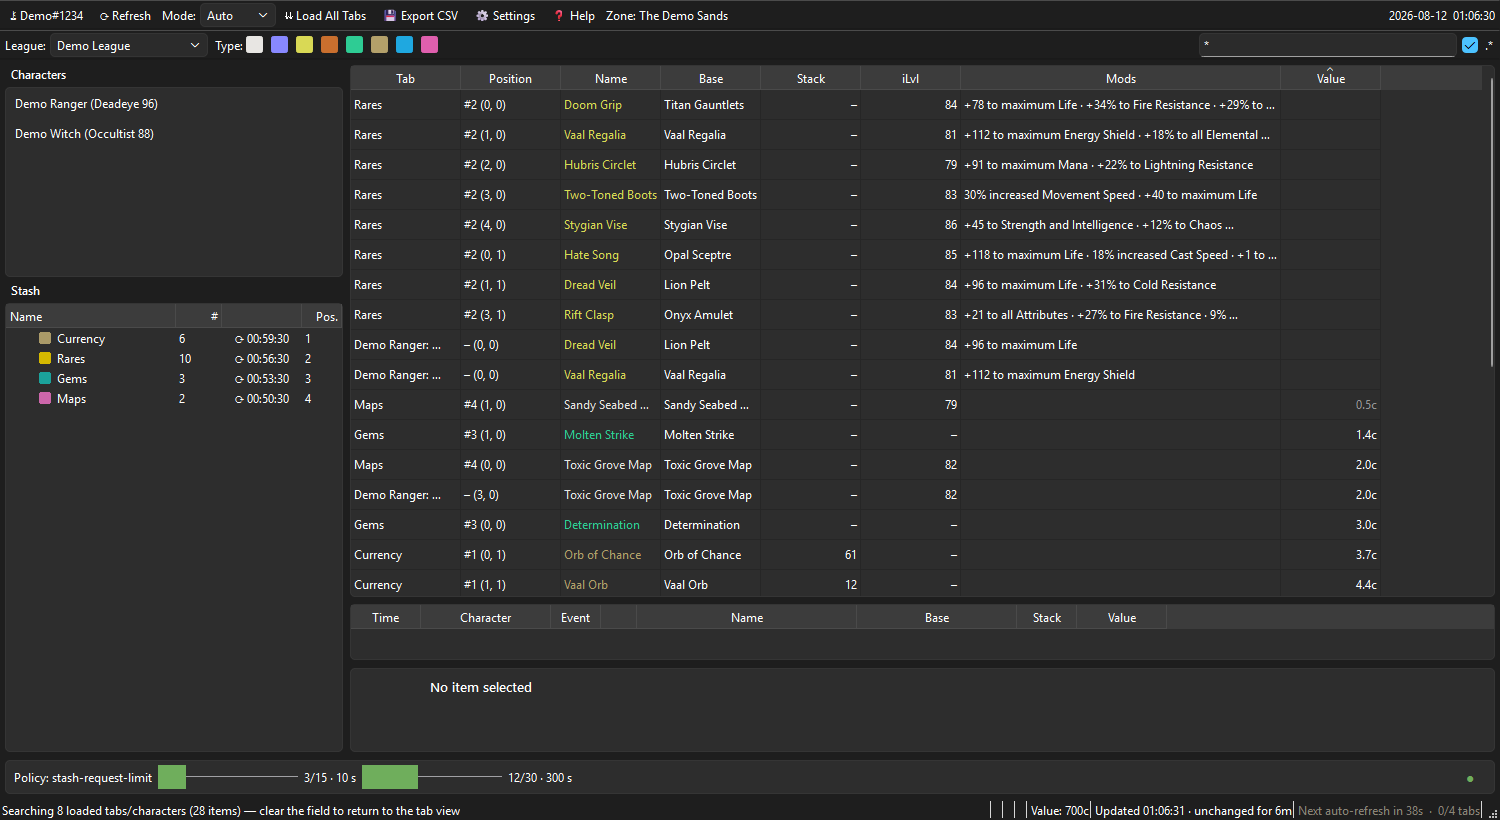
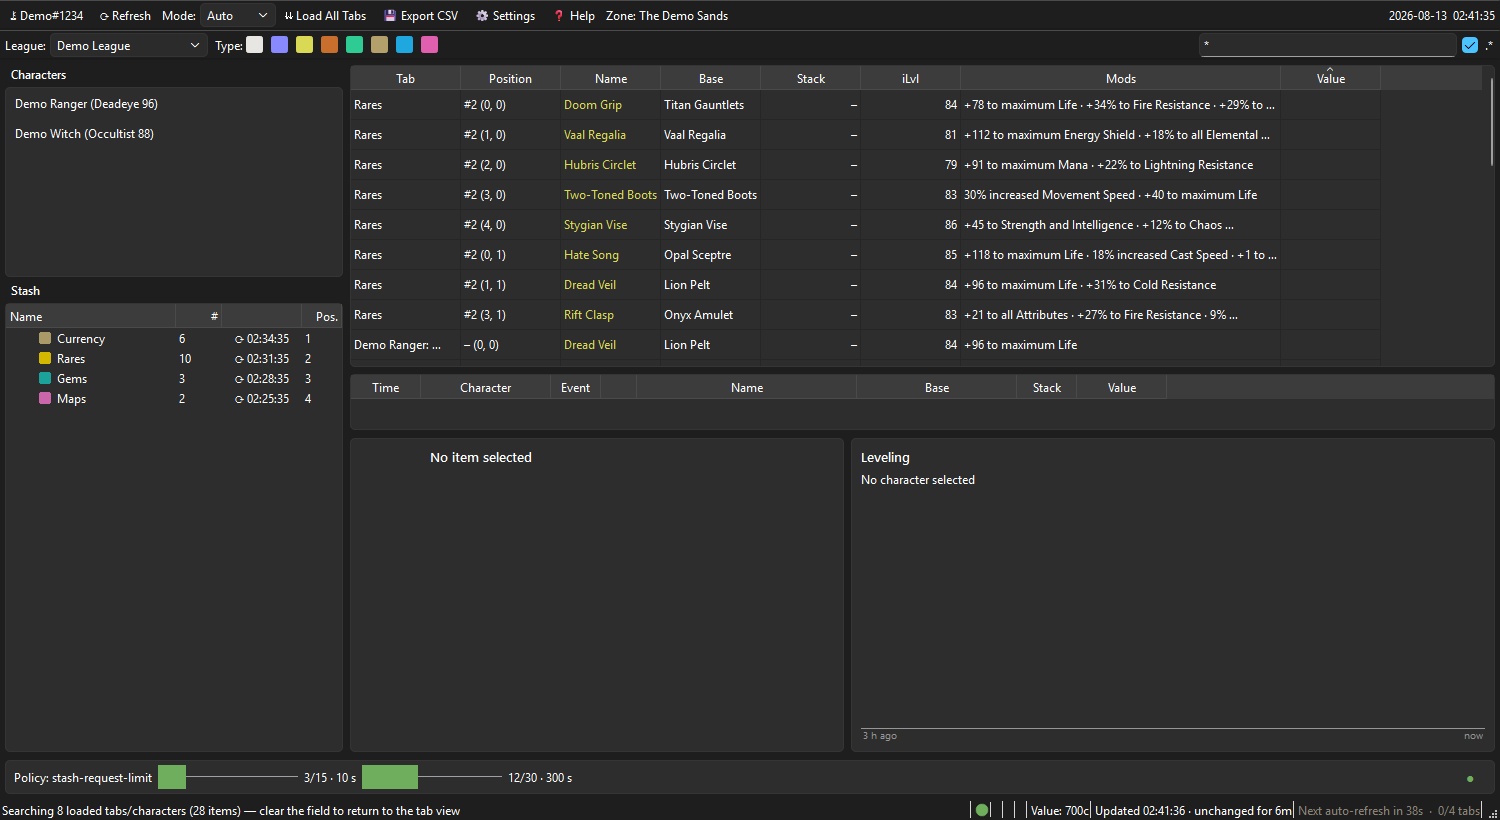
Release v0.8.0 vorbereiten
Version, Changelog-Abschnitt und die drei README-Screenshots neu (die
Oberflaeche hat sich sichtbar geaendert: Bloecke im Item-Detail,
Leveling-Feld mit Graph, Verbindungs-LED).

Der Generator legt dem Demo-Charakter dafuer einen erfundenen
Abendverlauf an — sonst zeigte das Bild eine leere Achse. Groessen-
ordnungen aus poe-verhalten.md §3, Namen weiterhin "Demo ...".

diff --git a/poe_view/__init__.py b/poe_view/__init__.py
@@ -6,4 +6,4 @@ Schichten (Abhängigkeiten zeigen nur nach unten, siehe docs/ARCHITEKTUR.md §3)
   api/      reines Python: OAuth, HTTP-Client, Rate-Limiter, Datenmodelle
 """
 
-__version__ = "0.7.0"
+__version__ = "0.8.0"

diff --git a/CHANGELOG.md b/CHANGELOG.md
@@ -6,6 +6,8 @@ nach [SemVer](https://semver.org/lang/de/).
 
 ## [Unveröffentlicht]
 
+## [0.8.0] - 2026-08-13
+
 ### Hinzugefügt
 
 - Rechtsklick auf ein Item bietet jetzt "Copy item text (for Path of
@@ -23,8 +25,48 @@ nach [SemVer](https://semver.org/lang/de/).
   abgeschnitten zu werden.
 - Neben dem Item-Detail sitzt ein Leveling-Feld mit Stufe,
   Gesamterfahrung und XP/h des zuletzt abgeschlossenen Gebiets. Die
-  Trennlinie zwischen beiden lässt sich verschieben. Ein Verlaufsgraph
-  ist dort vorgesehen, aber noch nicht gebaut.
+  Trennlinie zwischen beiden lässt sich verschieben.
+- Eine Verbindungs-LED am rechten Ende der Statuszeile: grün, solange
+  GGG antwortet, rot während einer Wartung, grau bevor überhaupt etwas
+  abgefragt wurde. Sie geht von selbst wieder auf grün, sobald ein
+  Abruf gelingt — ohne Neustart. Die Bedeutung der drei Farben steht im
+  Hilfe-Fenster unter "Getting started".
+- Darunter zeichnet ein Graph die letzten drei Stunden: ein Balken je
+  abgeschlossenem Gebiet, so breit wie das Gebiet gedauert hat. Wo
+  nichts steht, wurde keine Erfahrung gemacht — Pausen bleiben als
+  Lücken sichtbar. Ein Gebiet, in dem unterm Strich Erfahrung verloren
+  ging, hängt rot unter der Null-Linie.
+
+### Behoben
+
+- Billige Währung wurde teils viel zu hoch bewertet — ein Stapel von 921
+  Wisdom Scrolls stand mit 4,9 Divine in der Tabelle. poe.ninja kann
+  Kurse unter einem Chaos in einer Handelsrichtung nicht ausdrücken und
+  meldet dort glatt „1 Chaos"; die Gegenrichtung wird jetzt zuverlässig
+  ausgewertet, auch seit poe.ninja sie in umgekehrter Einheit angibt.
+  Fehlt die Gegenrichtung ganz, bleibt die Wertspalte leer, statt eine
+  Obergrenze als Preis auszugeben.
+- Das Item-Detail schnitt lange Items wieder ab, ohne es zu sagen: Die
+  Trennlinien zwischen den Blöcken brauchen selbst Platz, was bei der
+  Höhe nicht mitgerechnet war. Das Feld ist 16 Pixel höher und zeigt
+  jetzt 95 % aller Items vollständig; was darüber hinausgeht, wird wie
+  vorgesehen gemeldet.
+- Während einer GGG-Wartung meldete die Anwendung im Sekundentakt
+  "League not found" und verdeckte damit ihren eigenen Offline-Hinweis.
+  Der Truhen-Endpunkt beantwortet eine laufende Wartung nicht mit einem
+  Serverfehler, sondern mit einer abgelehnten Anfrage — gemessen an
+  einer echten Wartung in 19 von 22 Fällen, während der
+  Charakter-Endpunkt gleichzeitig sauber "Server nicht verfügbar"
+  meldete. Die Liga existierte dabei durchgehend. Solche Antworten
+  zählen jetzt als Wartung: Es erscheint der normale Offline-Hinweis,
+  und die zwischengespeicherten Daten bleiben durchsuchbar.
+- Nach der ersten Karte einer Sitzung blieb die XP/h-Anzeige leer,
+  obwohl alles Nötige gemessen war: Der Weg ins Hideout ändert die
+  Erfahrung nicht, es gab also nur eine Veröffentlichung, und die
+  Rechnung verlangte zwei. Sie nimmt jetzt den Stand beim
+  Programmstart als Vergleichspunkt — allerdings nur, wenn dieser
+  nachweislich vor dem Betreten des gemessenen Gebiets liegt,
+  andernfalls wäre die Rate erfunden.
 
 ## [0.7.0] - 2026-08-12
 
@@ -707,7 +749,8 @@ Erste veröffentlichte Version.
 Die technischen Hintergründe einzelner Entscheidungen stehen in
 [FALLSTRICKE_UND_WORKAROUNDS.md](FALLSTRICKE_UND_WORKAROUNDS.md).
 
-[Unveröffentlicht]: https://github.com/peterm2024/PoE-VIEW2/compare/v0.7.0...HEAD
+[Unveröffentlicht]: https://github.com/peterm2024/PoE-VIEW2/compare/v0.8.0...HEAD
+[0.8.0]: https://github.com/peterm2024/PoE-VIEW2/compare/v0.7.0...v0.8.0
 [0.7.0]: https://github.com/peterm2024/PoE-VIEW2/compare/v0.6.0...v0.7.0
 [0.6.0]: https://github.com/peterm2024/PoE-VIEW2/compare/v0.5.1...v0.6.0
 [0.5.1]: https://github.com/peterm2024/PoE-VIEW2/compare/v0.5.0...v0.5.1
